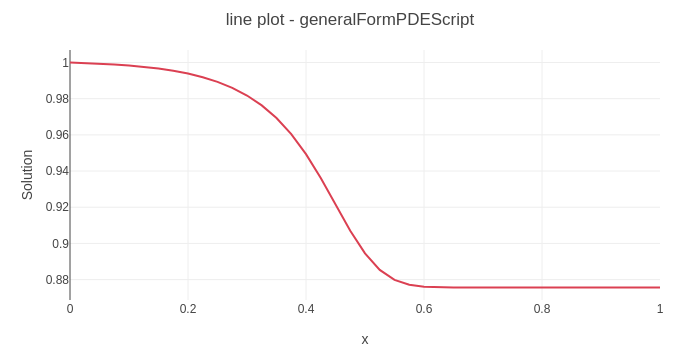
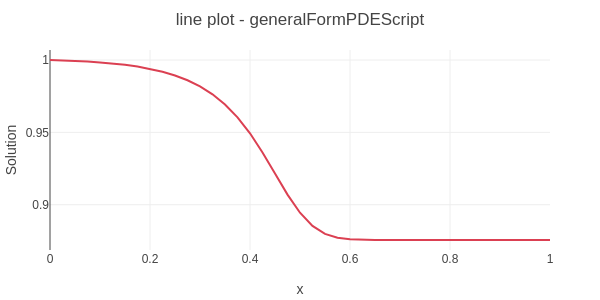
Update solution plotting in tutorials

diff --git a/tutorials/heat-conduction-2d-fin-gmsh.html b/tutorials/heat-conduction-2d-fin-gmsh.html
@@ -162,7 +162,7 @@
   &lt;!-- ...body region... --&gt;
   &lt;script type="module"&gt;
     // Import FEAScript library
-    import { FEAScriptModel, importGmshQuadTri, plotSolution, printVersion } from "https://core.feascript.com/dist/feascript.esm.js";
+    import { FEAScriptModel, importGmshQuadTri, plotInterpolatedSolution, printVersion } from "https://core.feascript.com/dist/feascript.esm.js";
   
     window.addEventListener("DOMContentLoaded", async () => {
       // Print FEAScript version in the console
@@ -200,17 +200,10 @@
   
       // Solve
       model.setSolverMethod("lusolve");
-      const { solutionVector, nodesCoordinates } = model.solve();
+      const result = model.solve();
   
       // Plot results
-      plotSolution(
-        solutionVector,
-        nodesCoordinates,
-        model.solverConfig,
-        model.meshConfig.meshDimension,
-        "contour",
-        "resultsCanvas"
-      );
+      plotInterpolatedSolution(model, result, "contour", "resultsCanvas");
     });
   &lt;/script&gt;
   &lt;!-- ... rest of body region... --&gt;
@@ -358,14 +351,14 @@ Mesh 2;</pre
       import {
         FEAScriptModel,
         importGmshQuadTri,
-        plotSolution,
+        plotInterpolatedSolution,
         printVersion,
       } from "https://core.feascript.com/dist/feascript.esm.js";
       // Import FEAScript library from a local directory
       // import {
       //   FEAScriptModel,
       //   importGmshQuadTri,
-      //   plotSolution,
+      //   plotInterpolatedSolution,
       //   printVersion,
       //   logSystem,
       // } from "../../FEAScript-core/src/index.js";
@@ -414,18 +407,10 @@ Mesh 2;</pre
         gmshModel.setSolverMethod("lusolve");
 
         // Solve the problem and get the solution
-        const { solutionVector: gmshSolutionVector, nodesCoordinates: gmshNodesCoordinates } =
-          gmshModel.solve();
+        const result = gmshModel.solve();
 
-        // Plot the GMSH solution
-        plotSolution(
-          gmshSolutionVector,
-          gmshNodesCoordinates,
-          gmshModel.solverConfig,
-          gmshModel.meshConfig.meshDimension,
-          "contour",
-          "resultsCanvas"
-        );
+        // Plot the Gmsh solution
+        plotInterpolatedSolution(gmshModel, result, "contour", "resultsCanvas");
       });
     </script>
 

diff --git a/tutorials/heat-conduction-2d-fin.html b/tutorials/heat-conduction-2d-fin.html
@@ -7,6 +7,7 @@
    Version: 0.1.4 | https://feascript.com
   ════════════════════════════════════════════════════════════
 -->
+
 <html>
   <head>
     <title>FEAScript: Heat Conduction in a 2D Fin Tutorial</title>
@@ -213,17 +214,10 @@
 
       // Solve
       model.setSolverMethod("lusolve");
-      const { solutionVector, nodesCoordinates } = model.solve();
+      const result = model.solve();
 
       // Plot results
-      plotSolution(
-        solutionVector,
-        nodesCoordinates,
-        model.solverConfig,
-        model.meshConfig.meshDimension,
-        "contour",
-        "resultsCanvas"
-      );
+      plotSolution(model, result, "contour", "resultsCanvas");
       
     });
   &lt;/script&gt;
@@ -328,17 +322,11 @@
         // model.setSolverMethod("frontal");
 
         // Solve the problem and get the solution
-        const { solutionVector, nodesCoordinates } = model.solve();
+        // const { solutionVector, nodesCoordinates } = model.solve(); // Destructuring syntax
+        const result = model.solve();
 
         // Plot the solution as a 2D contour plot
-        plotSolution(
-          solutionVector,
-          nodesCoordinates,
-          model.solverConfig,
-          model.meshConfig.meshDimension,
-          "contour",
-          "resultsCanvas"
-        );
+        plotSolution(model, result, "contour", "resultsCanvas");
       });
     </script>
 

diff --git a/tutorials/solidification-front-2d-worker.html b/tutorials/solidification-front-2d-worker.html
@@ -195,17 +195,10 @@ start chrome --disable-web-security --user-data-dir="C:\tmp\chrome-cors" --disab
   
       // Solve
       await model.setSolverMethod("lusolve");
-      const { solutionVector, nodesCoordinates } = await model.solve();
+      const result = await model.solve();
   
       // Plot results
-      plotSolution(
-        solutionVector,
-        nodesCoordinates,
-        "frontPropagationScript",
-        "2D",
-        "contour",
-        "resultsCanvas"
-      );
+      plotSolution(model, result, "contour", "resultsCanvas");
   
       // Terminate the worker
       model.terminate();
@@ -282,17 +275,10 @@ start chrome --disable-web-security --user-data-dir="C:\tmp\chrome-cors" --disab
           await model.setSolverMethod("lusolve");
 
           // Solve the problem and get the solution
-          const { solutionVector, nodesCoordinates } = await model.solve();
+          const result = await model.solve();
 
           // Plot the solution as a 2D contour plot
-          plotSolution(
-            solutionVector,
-            nodesCoordinates,
-            "frontPropagationScript",
-            "2D",
-            "contour",
-            "resultsCanvas"
-          );
+          plotSolution(model, result, "contour", "resultsCanvas");
         } catch (error) {
           console.error("Error in worker execution:", error);
           alert("Error executing the solver. Check console for details.");

diff --git a/tutorials/heat-conduction-2d-fin-worker.html b/tutorials/heat-conduction-2d-fin-worker.html
@@ -193,17 +193,10 @@ start chrome --disable-web-security --user-data-dir="C:\tmp\chrome-cors" --disab
   
       // Solve
       await model.setSolverMethod("lusolve");
-      const { solutionVector, nodesCoordinates } = await model.solve();
+      const result = await model.solve();
   
       // Plot results
-      plotSolution(
-        solutionVector,
-        nodesCoordinates,
-        "heatConductionScript",
-        "2D",
-        "contour",
-        "resultsCanvas"
-      );
+      plotSolution(model, result, "contour", "resultsCanvas");
   
       // Terminate the worker
       model.terminate();
@@ -277,20 +270,13 @@ start chrome --disable-web-security --user-data-dir="C:\tmp\chrome-cors" --disab
         await model.setSolverMethod("lusolve");
 
         // Solve the problem and get the solution
-        const { solutionVector, nodesCoordinates } = await model.solve();
+        const result = await model.solve();
 
         // Hide loading indicator
         document.getElementById("loading").style.display = "none";
 
         // Plot the solution as a 2D contour plot
-        plotSolution(
-          solutionVector,
-          nodesCoordinates,
-          "heatConductionScript",
-          "2D",
-          "contour",
-          "resultsCanvas"
-        );
+        plotSolution(model, result, "contour", "resultsCanvas");
 
         // Terminate the worker
         model.terminate();

diff --git a/tutorials/heat-conduction-2d-fin-webgpu.html b/tutorials/heat-conduction-2d-fin-webgpu.html
@@ -183,17 +183,10 @@ start chrome --disable-web-security --user-data-dir="C:\tmp\chrome-cors" --disab
     model.setSolverMethod("jacobi-gpu");
 
     // Solve
-    const { solutionVector, nodesCoordinates } = await model.solveAsync();
+    const result = await model.solveAsync();
 
     // Plot results
-    plotSolution(
-      solutionVector,
-      nodesCoordinates,
-      "heatConductionScript",
-      "2D",
-      "contour",
-      "resultsCanvas"
-    );
+    plotSolution(model, result, "contour", "resultsCanvas");
   });
   &lt;/script&gt;
   &lt;!-- ...rest of body region... --&gt;
@@ -249,18 +242,11 @@ start chrome --disable-web-security --user-data-dir="C:\tmp\chrome-cors" --disab
 
         model.setSolverMethod("jacobi-gpu");
 
-        const { solutionVector, nodesCoordinates } = await model.solveAsync();
+        const result = await model.solveAsync();
 
         resultDiv.style.display = "none";
 
-        plotSolution(
-          solutionVector,
-          nodesCoordinates,
-          model.solverConfig,
-          model.meshConfig.meshDimension,
-          "contour",
-          "resultsCanvas"
-        );
+        plotSolution(model, result, "contour", "resultsCanvas");
       });
     </script>
 

diff --git a/tutorials/advection-diffusion-1d.html b/tutorials/advection-diffusion-1d.html
@@ -223,17 +223,10 @@
 
       // Solve
       model.setSolverMethod("lusolve");
-      const { solutionVector, nodesCoordinates } = model.solve();
+      const result = model.solve();
 
       // Plot results
-      plotSolution(
-        solutionVector,
-        nodesCoordinates,
-        model.solverConfig,
-        model.meshConfig.meshDimension,
-        "line",
-        "resultsCanvas"
-      );
+      plotSolution(model, result, "line", "resultsCanvas");
     });
   &lt;/script&gt;
   &lt;!-- ...rest of body region... --&gt;
@@ -324,17 +317,10 @@
         model.setSolverMethod("lusolve");
 
         // Solve the problem and get the solution
-        const { solutionVector, nodesCoordinates } = model.solve();
+        const result = model.solve();
 
         // Plot the solution as a 1D line plot
-        plotSolution(
-          solutionVector,
-          nodesCoordinates,
-          model.solverConfig,
-          model.meshConfig.meshDimension,
-          "line",
-          "resultsCanvas"
-        );
+        plotSolution(model, result, "line", "resultsCanvas");
       });
     </script>
 

diff --git a/tutorials/solidification-front-2d.html b/tutorials/solidification-front-2d.html
@@ -235,17 +235,10 @@
 
       // Solve
       model.setSolverMethod("lusolve");
-      const { solutionVector, nodesCoordinates } = model.solve();
+      const result = model.solve();
 
       // Plot results
-      plotSolution(
-        solutionVector,
-        nodesCoordinates,
-        model.solverConfig,
-        model.meshConfig.meshDimension,
-        "contour",
-        "resultsCanvas"
-      );
+      plotSolution(model, result, "contour", "resultsCanvas");
       
     });
   &lt;/script&gt;
@@ -347,17 +340,10 @@
         // model.setSolverMethod("frontal");
 
         // Solve the problem and get the solution
-        const { solutionVector, nodesCoordinates } = model.solve();
+        const result = model.solve();
 
         // Plot the solution as a 2D contour plot
-        plotSolution(
-          solutionVector,
-          nodesCoordinates,
-          model.solverConfig,
-          model.meshConfig.meshDimension,
-          "contour",
-          "resultsCanvas"
-        );
+        plotSolution(model, result, "contour", "resultsCanvas");
       });
     </script>
 

diff --git a/tutorials/heat-conduction-1d-wall.html b/tutorials/heat-conduction-1d-wall.html
@@ -211,17 +211,10 @@
 
       // Solve
       model.setSolverMethod("lusolve");
-      const { solutionVector, nodesCoordinates } = model.solve();
+      const result = model.solve();
 
       // Plot results
-      plotSolution(
-        solutionVector,
-        nodesCoordinates,
-        model.solverConfig,
-        model.meshConfig.meshDimension,
-        "line",
-        "resultsCanvas"
-      );
+      plotSolution(model, result, "line", "resultsCanvas");
       
     });
   &lt;/script&gt;
@@ -303,17 +296,10 @@
         model.setSolverMethod("lusolve");
 
         // Solve the problem and get the solution
-        const { solutionVector, nodesCoordinates } = model.solve();
+        const result = model.solve();
 
         // Plot the solution as a 1D line plot
-        plotSolution(
-          solutionVector,
-          nodesCoordinates,
-          model.solverConfig,
-          model.meshConfig.meshDimension,
-          "line",
-          "resultsCanvas"
-        );
+        plotSolution(model, result, "line", "resultsCanvas");
       });
     </script>
     <footer>

diff --git a/tutorials/heat-conduction-2d-fin-performance-test.html b/tutorials/heat-conduction-2d-fin-performance-test.html
@@ -176,21 +176,14 @@
 
         // Measure the solving time
         const startTime = performance.now();
-        const { solutionVector, nodesCoordinates } = model.solve();
+        const result = model.solve();
         const endTime = performance.now();
         const solvingTime = ((endTime - startTime) / 1000).toFixed(3); // Convert to seconds and round to 3 decimal places
 
         // Display the time in the HTML
         document.getElementById("timeDisplay").innerHTML = `Solving time: ${solvingTime} seconds`;
 
-        plotSolution(
-          solutionVector,
-          nodesCoordinates,
-          "heatConductionScript",
-          "2D",
-          "contour",
-          "resultsCanvas"
-        );
+        plotSolution(model, result, "contour", "resultsCanvas");
       }
 
       runSpeedTest(document.getElementById("solverSelect").value);

diff --git a/index.html b/index.html
@@ -323,10 +323,10 @@
     model.addBoundaryCondition("boundaryIndex", ["conditionType", /* parameters */]);
 
     // Solve
-    const { solutionVector, nodesCoordinates } = model.solve();
+    const result = model.solve();
 
     // Plot results
-    plotSolution(solutionVector, nodesCoordinates, model.solverConfig, model.meshConfig.meshDimension, "contour", "resultsCanvas");
+    plotSolution(model, result, "contour", "resultsCanvas");
   });
   &lt;/script&gt;
   &lt;!-- ...rest of body region... --&gt;
